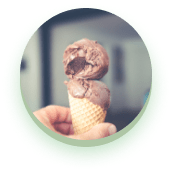
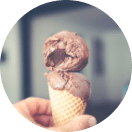
fixed mistake

diff --git a/src/sass/components/_modal-about-product.scss b/src/sass/components/_modal-about-product.scss
@@ -31,14 +31,14 @@
 
 .modal__about {
   @media screen and (max-width: 480px) {
-    width: 280px;
-    height: 968px;
+    min-width: 280px;
+    min-height: auto;
   }
   position: absolute;
-  width: 568px;
-  height: 996px;
+  min-width: 568px;
+  min-height: auto;
 
-  background-color: #fcfcfc;
+  background-color: var(--main-text-color);
   border-radius: 10px;
 }
 
@@ -51,13 +51,12 @@
 
   text-align: center;
   padding-top: 32px;
-  padding-bottom: 24px;
-  font-family: 'Seymour One';
-  font-style: normal;
+  margin-bottom: 24px;
+  font-family: var(--secondary-font);
   font-weight: 400;
   font-size: 20px;
   line-height: calc(28 / 20);
-  color: #131313;
+  color: var(--secondary-text-color);
 }
 
 .modal-about__img {
@@ -65,16 +64,47 @@
     padding-left: 74px;
     padding-right: 74px;
   }
+  height: 132px;
   display: flex;
   justify-content: center;
   align-items: center;
-  padding-bottom: 24px;
+}
+
+.modal-about__bgi{
+  position: relative;
+
+  width: 132px;
+  height: 132px;
+
+  background: linear-gradient(0deg, rgba(156, 190, 143, 0.7), rgba(156, 190, 143, 0.7)), #D9D9D9;
+  box-shadow: 0px 5.26027px 19.726px rgba(10, 136, 23, 0.25);
+  border-radius: 50%;
+}
+
+.modal-about__bgi-container{
+  position: absolute;
+  bottom: 10px;
+  left: 0;
+
+  width: 132px;
+  height: 132px;
+
+  border-radius: 50%;
+
+  overflow: hidden;
+
+  background-repeat: no-repeat;
+  background-size: cover;
+  background-position: center;
+
+  background-image: url(../images/modal-about-products/icecream-modal.png);
 }
 
 .modal-about__energy {
   @media screen and (max-width: 480px) {
     padding-bottom: 40px;
   }
+  padding-top: 24px;
   padding-bottom: 48px;
 }
 
@@ -102,7 +132,7 @@
   align-items: center;
   justify-content: center;
   gap: 20px;
-  background: #fcfcfc;
+  background: var(--main-text-color);
   border: 2px solid #9cbe8f;
   border-radius: 40px;
   width: 65px;
@@ -125,13 +155,12 @@
   box-shadow: 0px 6px 20px rgba(10, 136, 23, 0.25);
   border-radius: 85%;
 
-  font-family: 'Montserrat';
-  font-style: normal;
+  font-family: var(--main-font);
   font-weight: 500;
   font-size: 12px;
   line-height: calc(28 / 12);
 
-  color: #131313;
+  color: var(--secondary-text-color);
 }
 
 .modal-about__energy--name {
@@ -147,24 +176,22 @@
   align-items: center;
   padding-bottom: 15px;
 
-  font-family: 'Montserrat';
-  font-style: normal;
+  font-family: var(--main-font);
   font-weight: 400;
   font-size: 12px;
   line-height: calc(15 / 12);
 
-  color: #131313;
+  color: var(--secondary-text-color);
 }
 
 .modal-about__ingredients {
   text-align: center;
-  font-family: 'Montserrat';
-  font-style: normal;
+  font-family: var(--main-font);
   font-weight: 500;
   font-size: 20px;
   line-height: calc(28 / 20);
 
-  color: #131313;
+  color: var(--secondary-text-color);
 }
 
 .modal-about__form-input {
@@ -173,13 +200,12 @@
   width: 200px;
   height: 20px;
 
-  font-family: 'Montserrat';
-  font-style: normal;
+  font-family: var(--main-font);
   font-weight: 400;
   font-size: 14px;
   line-height: 140%;
 
-  color: #131313;
+  color: var(--secondary-text-color);
   resize: none;
 }
 
@@ -191,10 +217,9 @@
     margin-bottom: 4px;
     width: 22px;
     height: 14px;
-    font-style: normal;
     font-weight: 400;
     font-size: 12px;
-    line-height: 14px;
+    line-height: calc(14/12);
     letter-spacing: 0.01em;
     color: 1px solid rgba(33, 33, 33, 0.2);
   }
@@ -264,10 +289,9 @@
 .modal-about__ingredients-item {
   display: flex;
   justify-content: space-between;
-  font-family: 'Montserrat';
-  font-style: normal;
+  font-family: var(--main-font);
   font-weight: 400;
-  color: #131313;
+  color: var(--secondary-text-color);
 }
 
 .modal-about__ingredients-item:not(:last-child) {
@@ -296,8 +320,14 @@
   left: 4.5px;
 }
 
+.modal-about__btn{
+  display: flex;
+  justify-content: center;
+  align-items: center;
+}
+
 .modal-about__submit-button {
-  margin: 0 auto;
+  margin-bottom: 32px;
   width: 132px;
   @media screen and(min-width:768px) {
     width: 121px;

diff --git a/src/partials/modal-about-product.html b/src/partials/modal-about-product.html
@@ -4,12 +4,17 @@
       <h2 class="modal-about__title">Choсolate icecream</h2>
 
       <div class="modal-about__img">
-        <img
+        <!-- <img
           src="./images/modal-about-products/icecream-modal.png"
           alt="icecream"
-          width="132px"
-          height="132px"
-        />
+          width="132"
+          height="132"
+        > -->
+        <div class="modal-about__bgi">
+          <div class="modal-about__bgi-container">
+
+          </div>
+        </div>
       </div>
 
       <div class="modal-about__energy">
@@ -72,16 +77,16 @@
       </div>
       <form autocomplete="on">
         <div class="modal-about__form-field">
-          <label for="name" class="modal-about__form-label"></label>
+          <label for="user-name" class="modal-about__form-label"></label>
 
           <div class="modal-about__form-group">
             <input
               type="text"
               class="modal-about__form-input"
-              name="name"
-              id="name"
+              name="user-name"
+              id="user-name"
               placeholder="Name"
-            />
+              >
           </div>
 
           <label for="tel" class="modal-about__form-label"></label>
@@ -92,7 +97,7 @@
               name="tel"
               id="tel"
               placeholder="Phone"
-            />
+            >
           </div>
 
           <label for="comment" class="modal-about__form-label"></label>
@@ -106,10 +111,12 @@
             ></textarea>
           </div>
         </div>
-
-        <button type="submit" class="button modal-about__submit-button">
-          Submit
-        </button>
+        <div class="modal-about__btn">
+          <button type="submit" class="button modal-about__submit-button">
+            Submit
+          </button>
+        </div>
+        
       </form>
 
       <div class="close">
